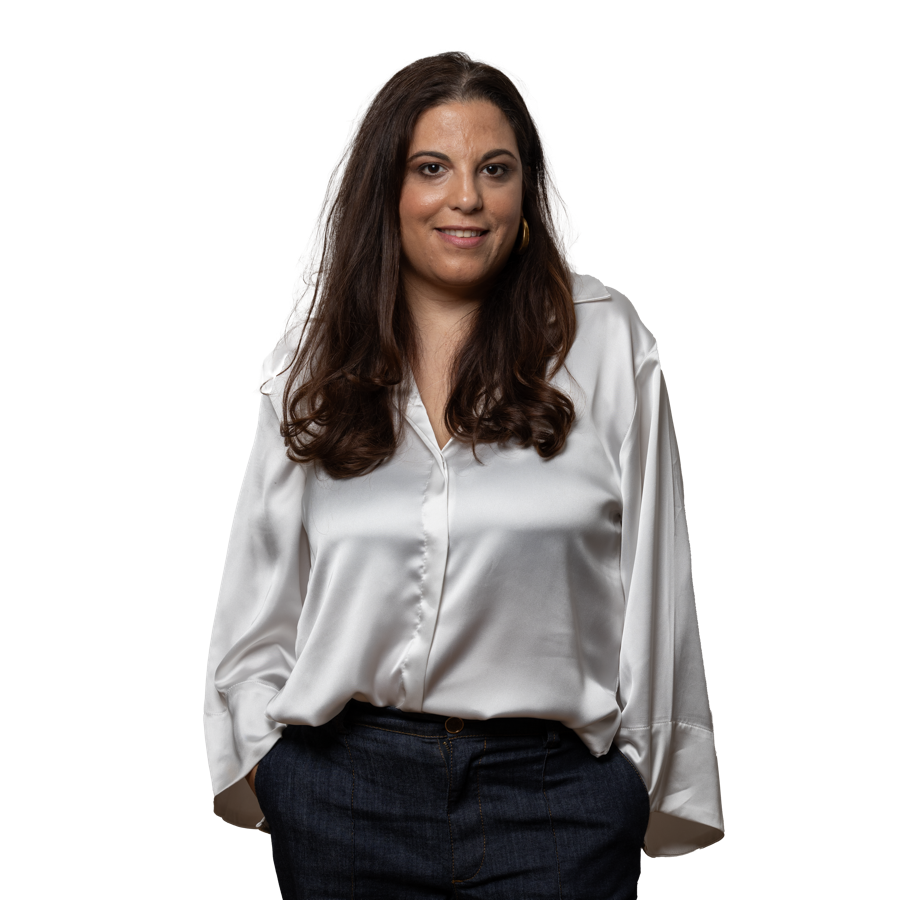
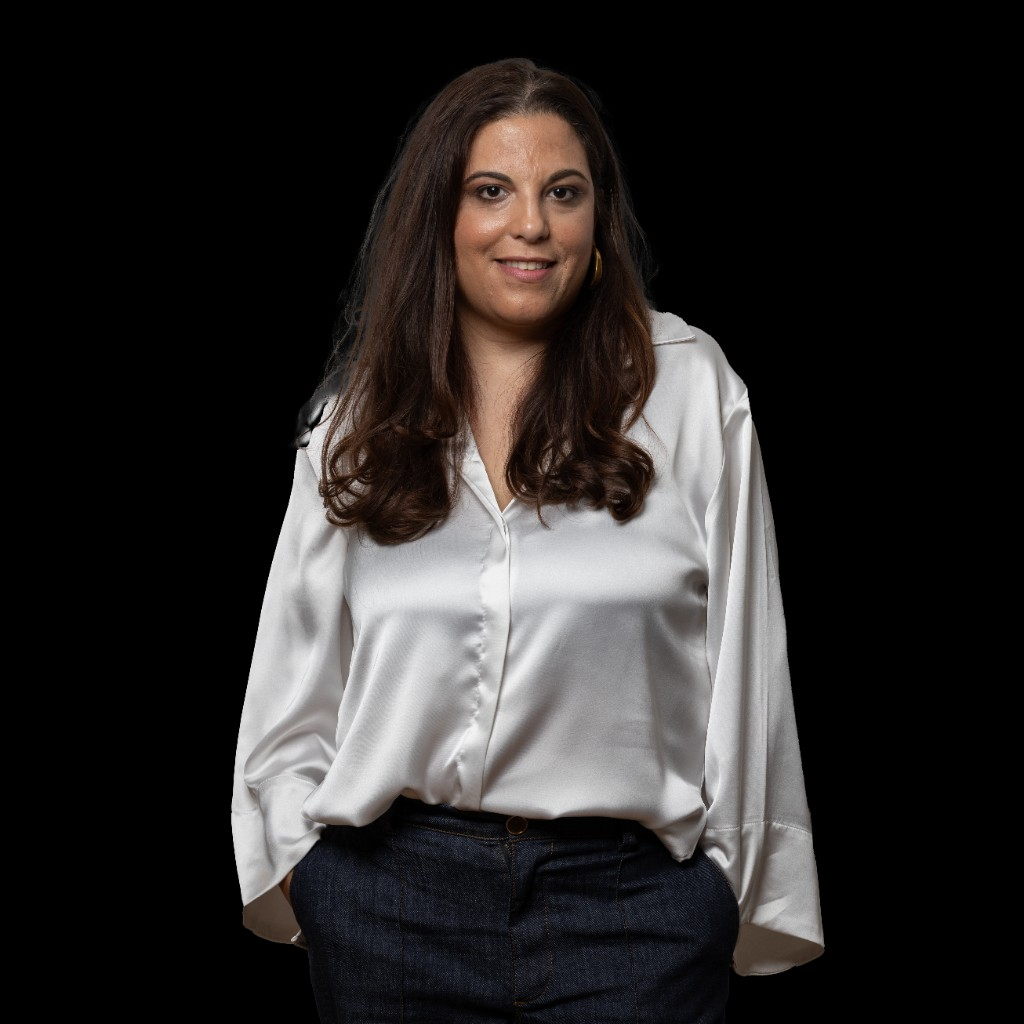
Update homepage hero and team portraits.
Replace the hero photo with the new team image, swap in transparent headshots, and preserve the hero image aspect ratio in CSS.

diff --git a/index.html b/index.html
@@ -83,7 +83,7 @@
         <ellipse cx="200" cy="200" rx="160" ry="135" stroke="#f9bf09" stroke-width="2.5" transform="rotate(78 200 200)"/>
       </svg>
       <div class="photo-card">
-        <img src="assets/img/ADHD_Athens-31.jpg" width="1024" height="683"
+        <img src="assets/img/ADHD_Athens-Hero.jpg" width="2048" height="1582"
              alt="The ADHD Athens team in conversation at the clinic"
              fetchpriority="high">
       </div>
@@ -209,7 +209,7 @@
 
     <div class="team-grid">
       <article class="team-card reveal" style="--d:.05s">
-        <div class="team-photo"><img src="assets/img/Headshot_Eugenia_2.png" alt="Evgenia Karamani" loading="lazy"></div>
+        <div class="team-photo"><img src="assets/img/Headshot_Eugenia_2_transparent.png" alt="Evgenia Karamani" loading="lazy"></div>
         <div class="team-body">
           <h3><span class="en">Evgenia Karamani</span><span class="el">Ευγενία Καραμάνη</span></h3>
           <p>
@@ -220,7 +220,7 @@
         </div>
       </article>
       <article class="team-card reveal" style="--d:.15s">
-        <div class="team-photo"><img src="assets/img/Headshot_Petros_1_transparent.png" alt="Dr. Petros Lekkos" loading="lazy"></div>
+        <div class="team-photo"><img src="assets/img/Headshot_Petros_2_transparent.png" alt="Dr. Petros Lekkos" loading="lazy"></div>
         <div class="team-body">
           <h3><span class="en">Dr. Petros Lekkos</span><span class="el">Δρ. Πέτρος Λέκκος</span></h3>
           <p>
@@ -231,7 +231,7 @@
         </div>
       </article>
       <article class="team-card reveal" style="--d:.25s">
-        <div class="team-photo"><img src="assets/img/Headshot_Johanna_1.png" alt="Dr. Johanna Liasides" loading="lazy"></div>
+        <div class="team-photo"><img src="assets/img/Headshot_Johanna_1_transparent.png" alt="Dr. Johanna Liasides" loading="lazy"></div>
         <div class="team-body">
           <h3><span class="en">Dr. Johanna Liasides</span><span class="el">Δρ. Johanna Liasides</span></h3>
           <p>

diff --git a/about.html b/about.html
@@ -81,7 +81,7 @@
     </div>
 
     <article class="bio-profile reveal" id="evgenia">
-      <div class="bio-photo"><img src="assets/img/Headshot_Eugenia_2.png" alt="Evgenia Karamani" loading="lazy"></div>
+      <div class="bio-photo"><img src="assets/img/Headshot_Eugenia_2_transparent.png" alt="Evgenia Karamani" loading="lazy"></div>
       <div class="bio-content prose">
         <h2><span class="en">Evgenia Karamani</span><span class="el">Ευγενία Καραμάνη</span></h2>
         <p class="team-role">
@@ -102,7 +102,7 @@
         </p>     </div>
     </article>
     <article class="bio-profile reveal" id="petros">
-      <div class="bio-photo"><img src="assets/img/Headshot_Petros_1_transparent.png" alt="Dr. Petros Lekkos" loading="lazy"></div>
+      <div class="bio-photo"><img src="assets/img/Headshot_Petros_2_transparent.png" alt="Dr. Petros Lekkos" loading="lazy"></div>
       <div class="bio-content prose">
         <h2><span class="en">Dr. Petros Lekkos</span><span class="el">Δρ. Πέτρος Λέκκος</span></h2>
         <p class="team-role">
@@ -143,7 +143,7 @@
       </div>
     </article>
     <article class="bio-profile reveal" id="johanna">
-      <div class="bio-photo"><img src="assets/img/Headshot_Johanna_1.png" alt="Dr. Johanna Liasides" loading="lazy"></div>
+      <div class="bio-photo"><img src="assets/img/Headshot_Johanna_1_transparent.png" alt="Dr. Johanna Liasides" loading="lazy"></div>
       <div class="bio-content prose">
         <h2><span class="en">Dr. Johanna Liasides</span><span class="el">Δρ. Johanna Liasides</span></h2>
         <p class="team-role">

diff --git a/css/styles.css b/css/styles.css
@@ -388,7 +388,8 @@ body:has(main > .hero:first-child) .site-header {
 }
 .hero-visual .photo-card img {
   width: 100%;
-  height: clamp(340px, 38vw, 520px);
+  height: auto;
+  aspect-ratio: 2048 / 1582;
   object-fit: cover;
 }
 .hero-orbits {
